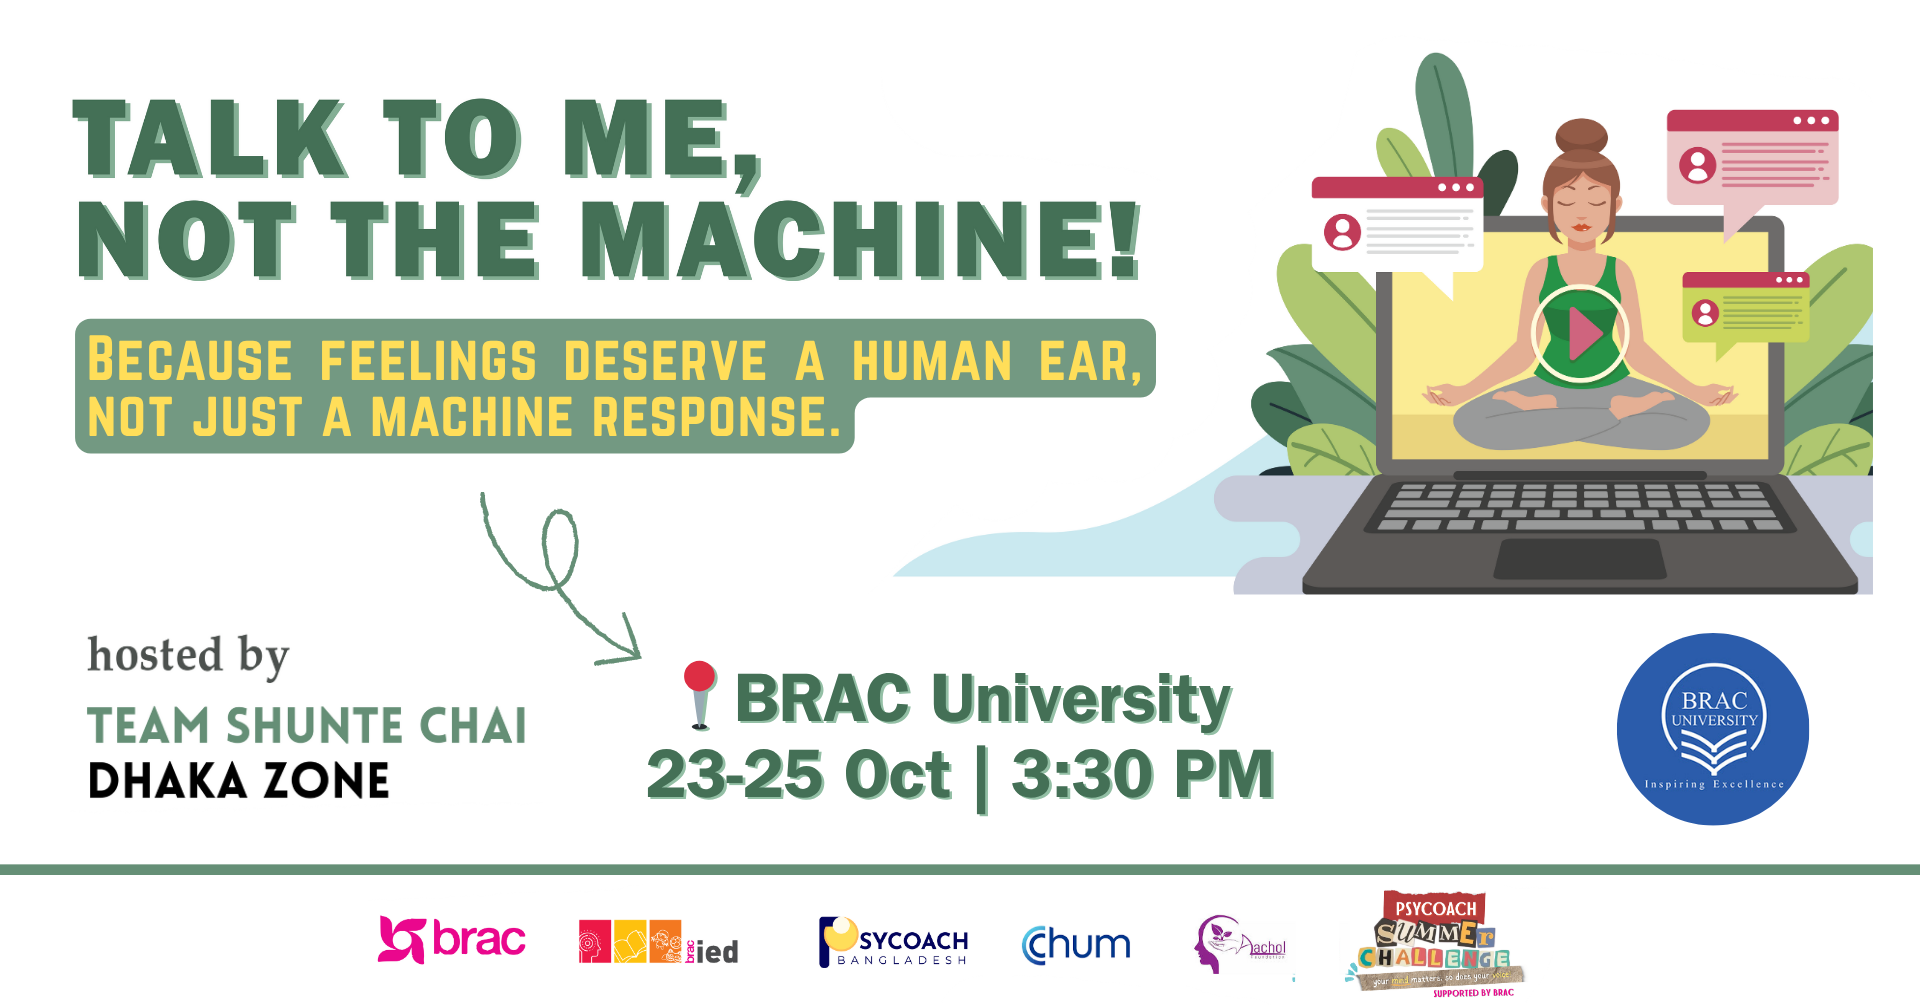
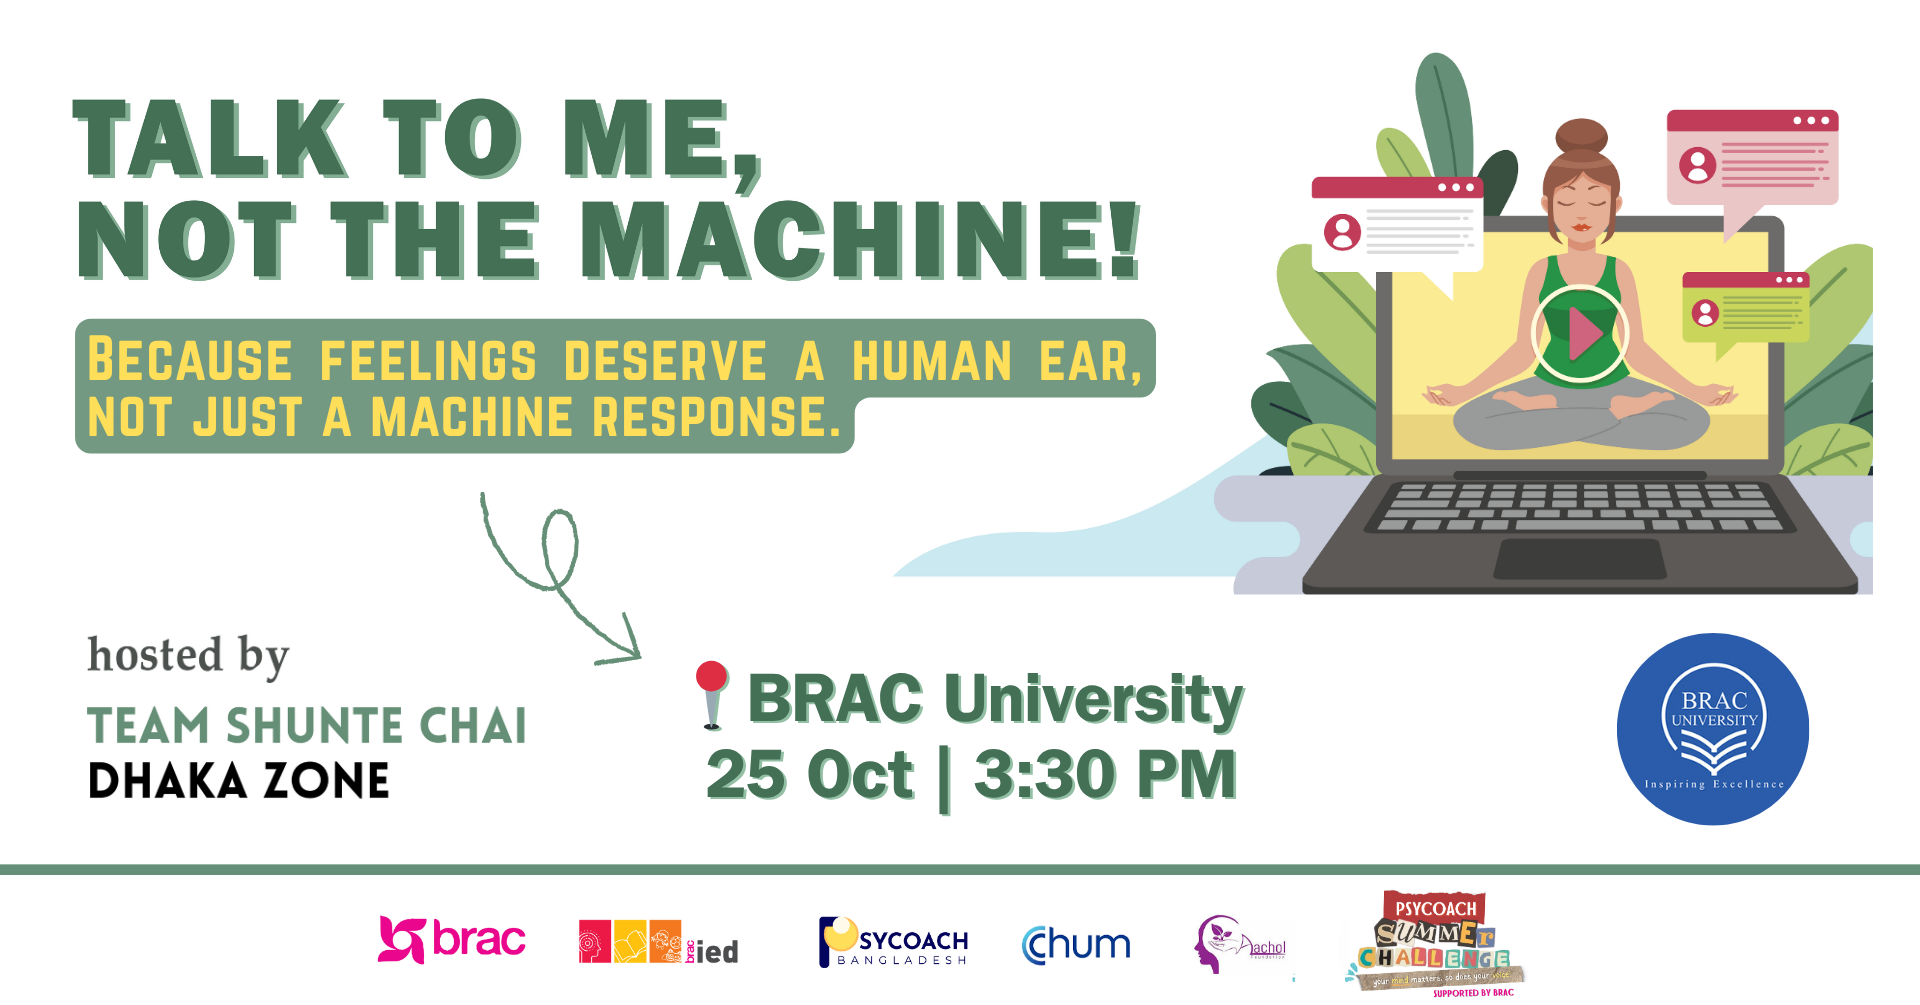
ALL UPDATED

Changed region(s): [[0.3125, 0.6478, 0.6875, 0.802]]

diff --git a/index.html b/index.html
@@ -10,7 +10,7 @@
 <body class="event-body">
   <div class="event-card">
     <div class="banner-section">
-      <div class="event-date">Oct 23-25, 2025</div>
+      <div class="event-date">Oct 25, 2025</div>
       <img src="images/Banner.png" alt="Workshop Banner" class="banner-img" />
     </div>
 
@@ -19,7 +19,7 @@
 
     <div class="event-info">
       <div class="info-item">
-        <span>📅 October 21, 2025</span>
+        <span>📅 October 23, 2025</span>
       </div>
       <div class="info-item">
         <span>🕗 11:59 PM</span>
@@ -35,7 +35,7 @@
     <a href="register.html" class="btn-register">Register Now</a>
     
     <section class="workshop-details">
-      <h2>Workshop Sessions</h2>
+      <h2>Workshop Details</h2>
       <ul class="session-list">
         <li><strong>1. Awareness & Mental Health Literacy</strong> - Understand AI overdependence and myths around emotional support.</li>
         <li><strong>2. Emotional Connection vs AI Dependency</strong> - Explore the limitations of AI and the value of human connection.</li>
@@ -46,13 +46,12 @@
         <h3>🎁 Bonus</h3>
         <ul>
           <li>Participants will receive a <strong>Certificate of Participation</strong>.</li>
-          <li>A great opportunity to visit <strong>BRAC University campus</strong>.</li>
           <li>Engage in fun, reflective group activities and meet like-minded peers.</li>
         </ul>
       </div>
 
       <div class="event-extra-info">
-        <p>📅 <strong>Date & Time:</strong> 23-25 October, 3:30 - 5:00 PM</p>
+        <p>📅 <strong>Date & Time:</strong> 25 October, 3:30 - 5:00 PM</p>
         <p>📍 <strong>Venue:</strong> BRAC University</p>
         <p>🎉 <strong>Hosted by:</strong> Team Shunte Chai</p>
         <p>💡 <strong>Part of:</strong> PsyCoach Summer Challenge 2025 (organized by PsyCoach Bangladesh, CHUM Wellness & Aachol Foundation, in collaboration with BRAC and BRAC IED)</p>
@@ -66,7 +65,7 @@
   </footer>
 
   <script>
-    const eventDate = new Date("October 21, 2025 23:59:00").getTime();
+    const eventDate = new Date("October 23, 2025 23:59:00").getTime();
     const countdownEl = document.getElementById("countdown");
 
     function updateCountdown() {

diff --git a/register.html b/register.html
@@ -26,12 +26,10 @@
       <label for="university">University</label>
       <input type="text" id="university" placeholder="Your university name" required />
 
-      <label>Are you committed to attend all 3 sessions? (You can join any day)</label>
+      <label>Are you committed to attend the session?</label>
       <div class="radio-group">
         <label><input type="radio" name="attendance" value="Yes" required /> Yes</label>
-        <label><input type="radio" name="attendance" value="I'll try" /> I'll try</label>
         <label><input type="radio" name="attendance" value="No" /> No</label>
-        <label><input type="radio" name="attendance" value="Maybe" /> Maybe</label>
       </div>
 
       <button type="submit" class="btn-primary">Register</button>
@@ -52,7 +50,7 @@
       <p><strong>Name:</strong> <span id="ticketName"></span></p>
       <p><strong>University:</strong> <span id="ticketUni"></span></p>
       <p><strong>Time:</strong> 3:30 - 5:00 PM</p>
-      <p><strong>Date:</strong> October 23 - 25, 2025</p>
+      <p><strong>Date:</strong> October 25, 2025</p>
       <p><strong>Venue:</strong> BRAC University</p>
       <p><strong>Room:</strong> B block, 8th floor (8B-7C)</p>
     </div>
